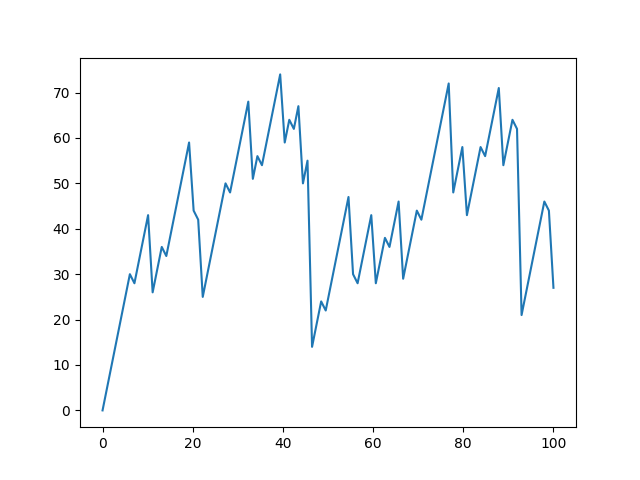
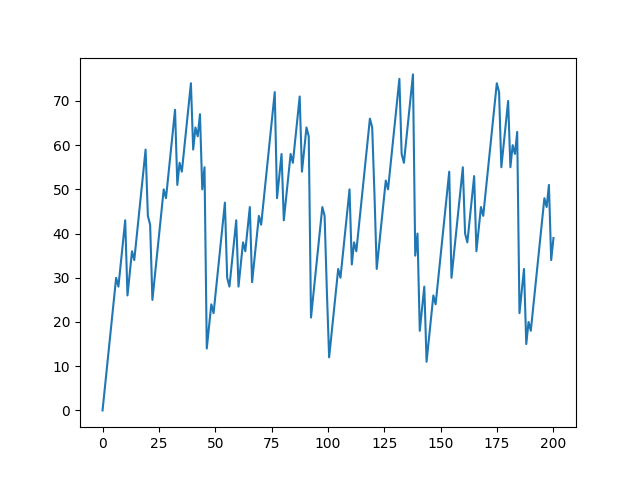
Modify visual sandbox

diff --git a/matplot/main.cpp b/matplot/main.cpp
@@ -25,7 +25,7 @@ int main() {
     cin >> arr[i];
   }
 
-  int graphSteps = 100;
+  int graphSteps = 200;
   for (int i = 0; i < graphSteps; i++) {
     cout << msum(i) << "\n";
   }
